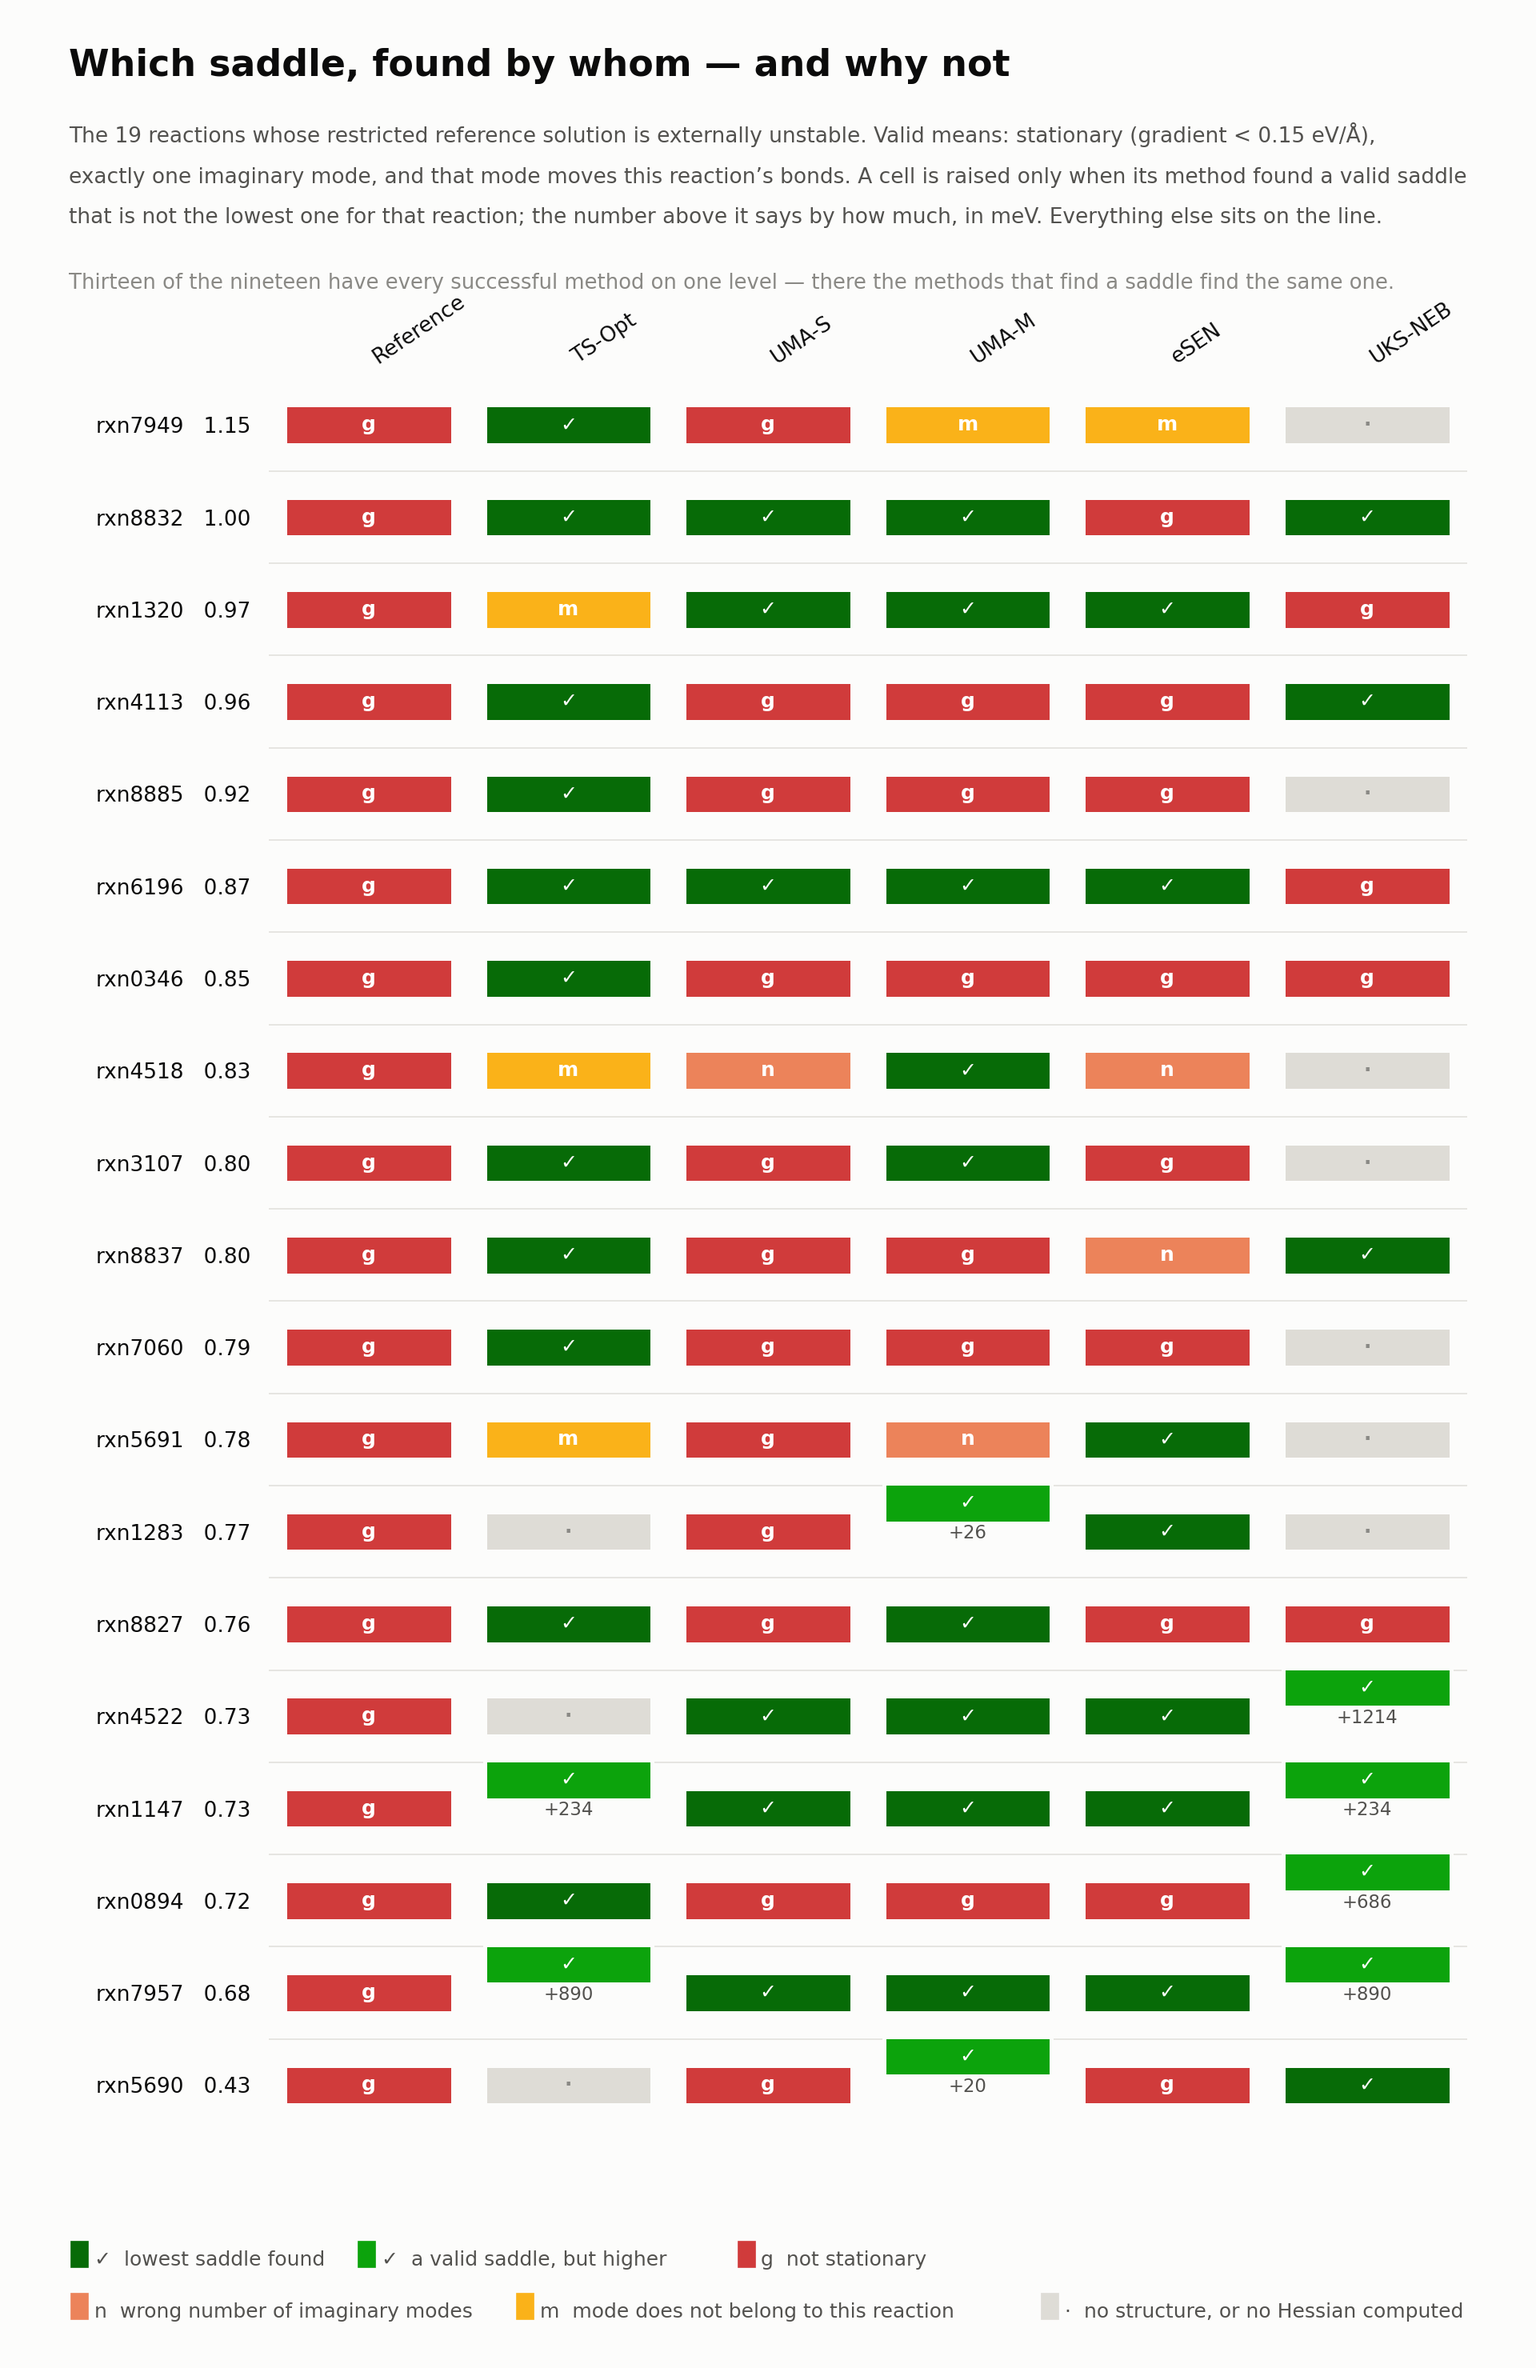
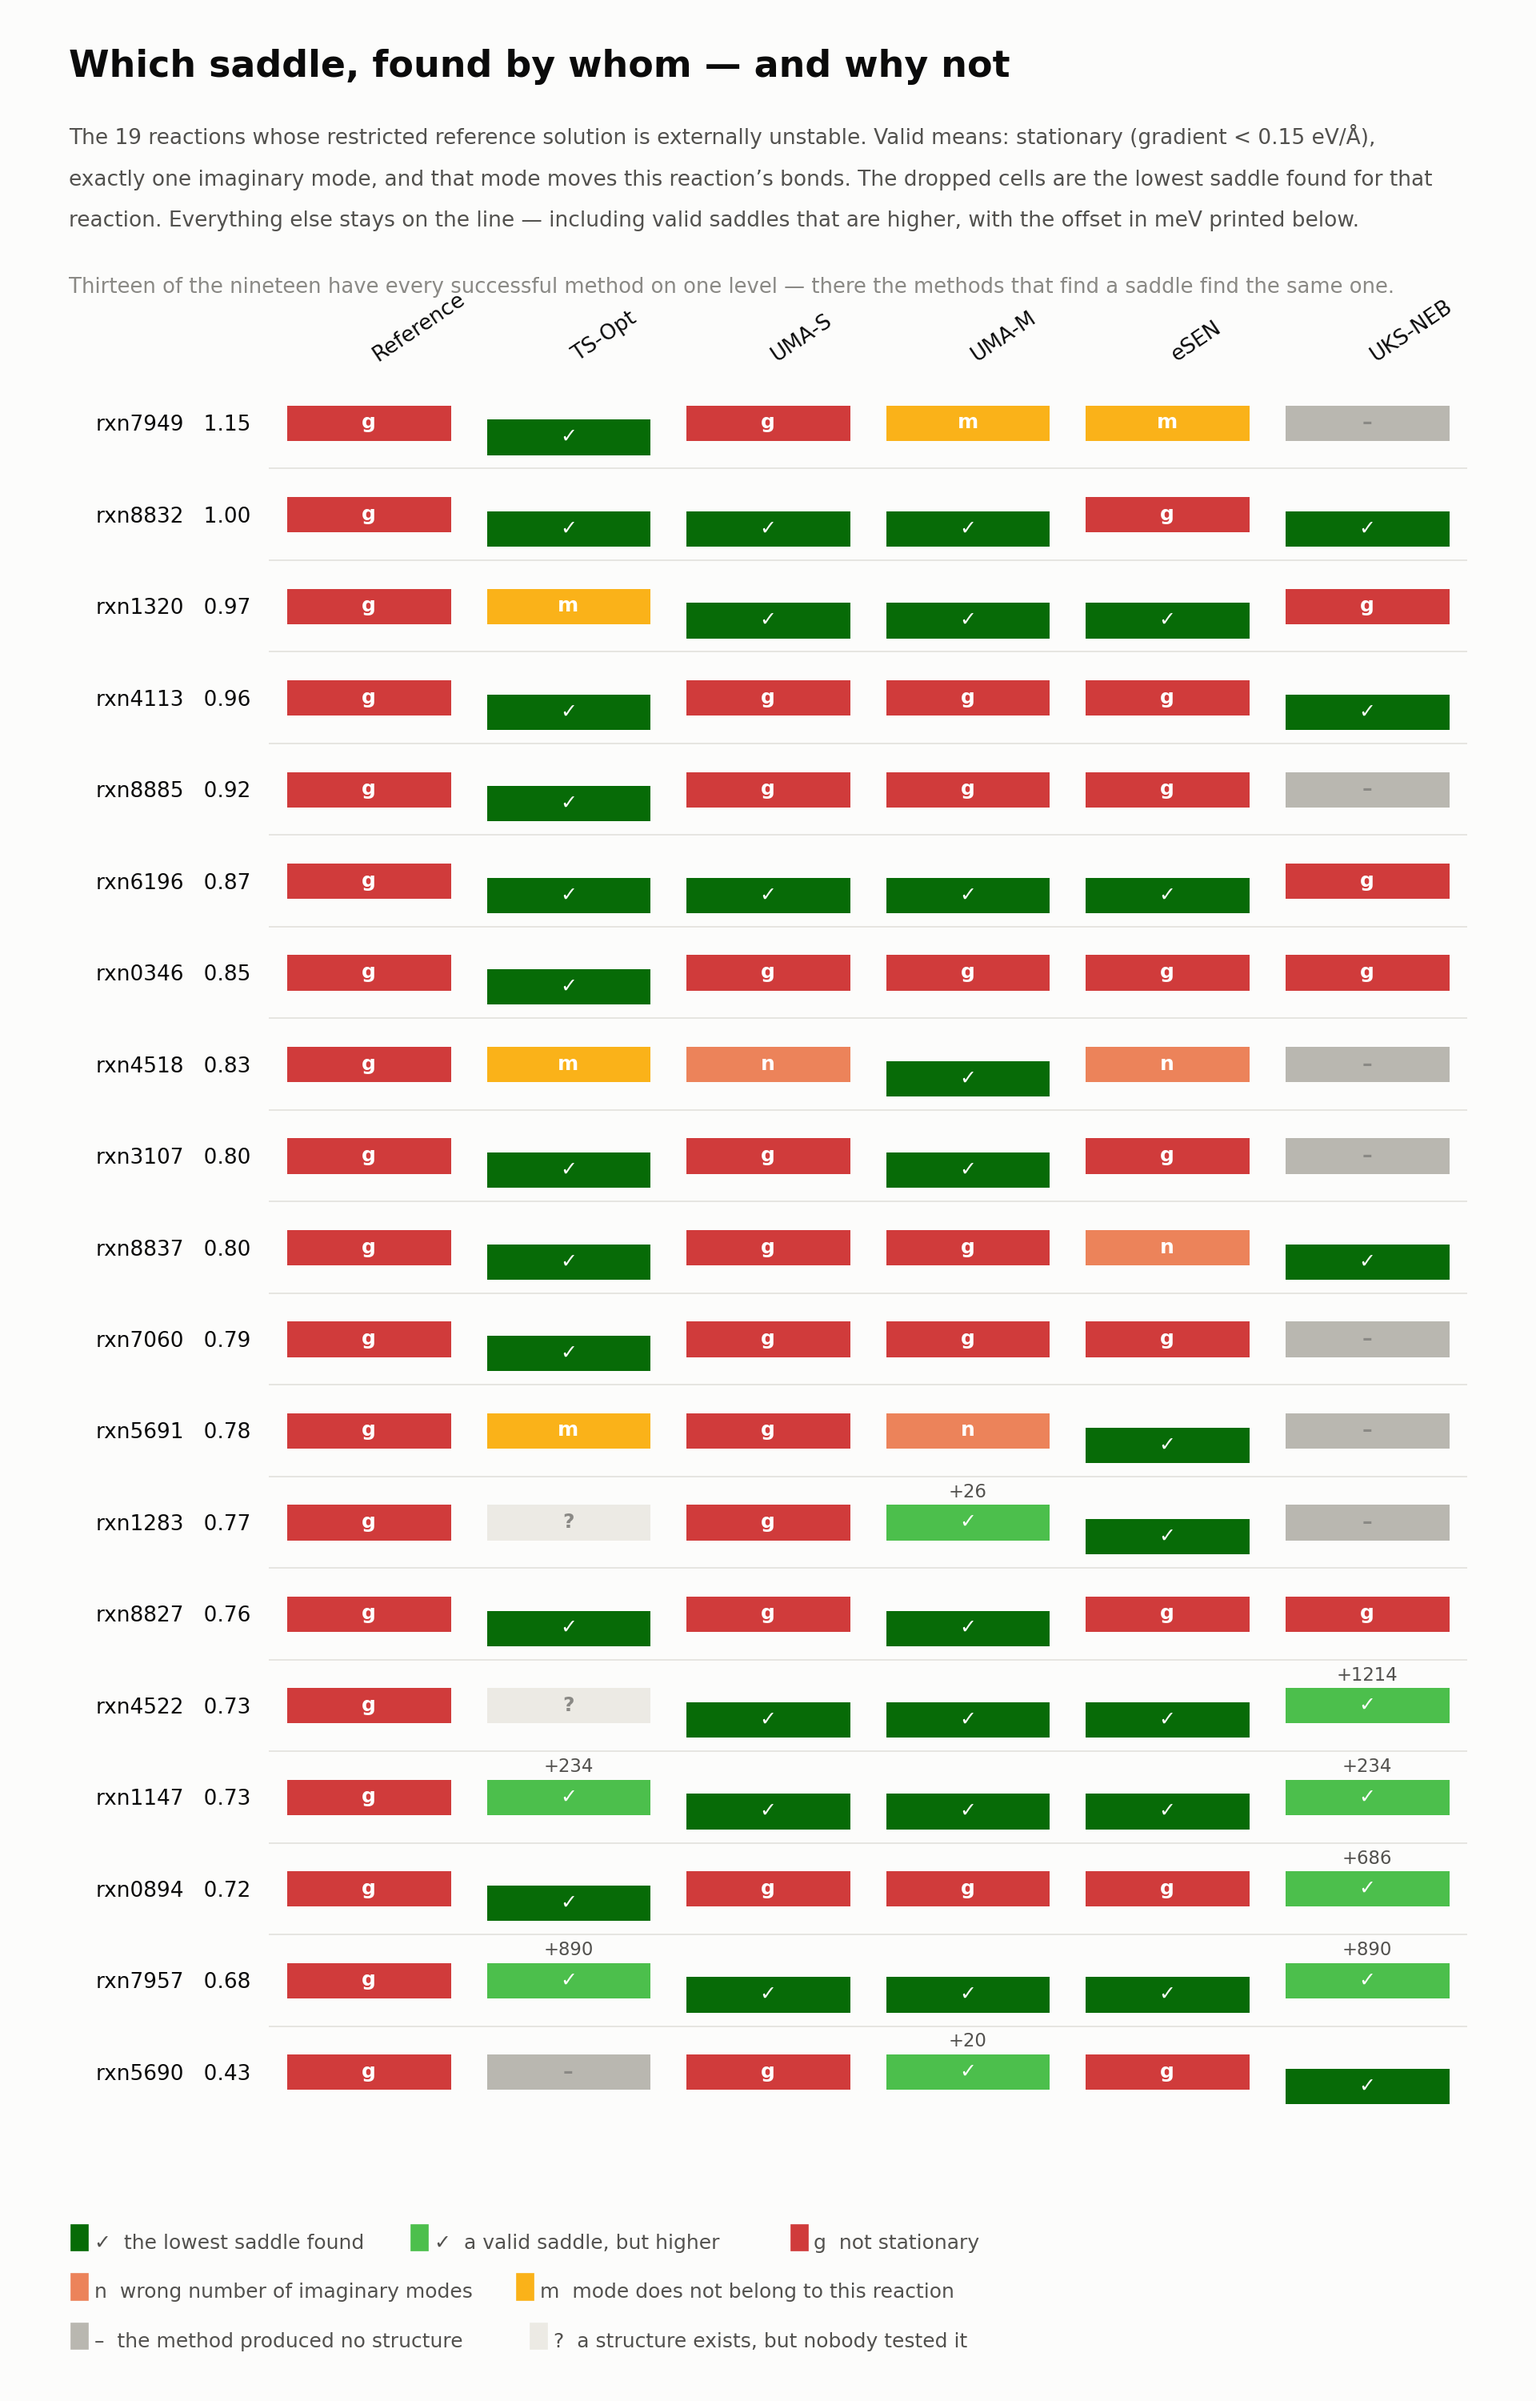
Separate "produced nothing" from "nobody looked", and drop only the winner
Two changes to the figure, both about not letting a cell say more than it knows.

The grey cell read "no structure, or no Hessian computed", which put a failure
of the method and a hole in our own work under one label. They mean opposite
things. Now "-" means the method produced no structure at all -- the NEB at
seven reactions, our optimisation at rxn5690 -- and "?" means a structure
exists and nobody tested it. "?" appears exactly twice, at our own TS-Opt for
rxn1283 and rxn4522, so the two remaining gaps are visible as gaps instead of
passing for results.

And the height rule is inverted: only the lowest saddle drops below the line,
everything else stays on it. Previously the higher saddles rose and the lowest
sat on the line, which made the answer look like the default rather than the
finding. Now the one cell that sits apart is the one that is the answer.

make_freq_list_gaps.py fills those two. They were missed because
make_freq_list_ours.py built its task list from the reactions that already had
a PySCF Hessian, so a reaction that never had one could not acquire one -- the
list was keyed on the wrong thing.

Worth carrying with rxn4522: the structure recorded as ours there has <S^2> =
0.0 after 144 steps with the BS_LOST flag, so the symmetry breaking was lost
entirely and it is an RKS structure wearing a BS label. Also a correction --
the "332 steps" I repeated for rxn4522 belongs to a different run than the one
the tables use.

diff --git a/pipeline/plot_saddle_landscape.py b/pipeline/plot_saddle_landscape.py
@@ -57,8 +57,12 @@ GRID = '#e6e5e1'
 # higher one" are ordered states of the same outcome, not different outcomes.
 # Height and the printed offset carry the same distinction, so nothing rests on
 # the two greens being told apart.
-ST = {'low': '#076b07', 'ok': '#0ca30c', 'grad': '#d03b3b',
-      'nimag': '#ec835a', 'mode': '#fab219', 'none': '#dedcd6'}
+ST = {'low': '#076b07', 'ok': '#4cbf4c', 'grad': '#d03b3b',
+      'nimag': '#ec835a', 'mode': '#fab219',
+      # These two were one grey cell reading "no structure or no Hessian",
+      # which put a failure of the method and a gap in our own work under the
+      # same label. They mean opposite things and now look different.
+      'nostruct': '#b9b7b0', 'untested': '#eceae4'}
 
 METHODS = [('Reference', 'R'), ('TS-Opt', 'T'), ('UMA-S', 'S'),
            ('UMA-M', 'M'), ('eSEN', 'E'), ('UKS-NEB', 'N')]
@@ -276,17 +280,21 @@ for rx in MR:
     state, valid = {}, []
     for name, _ in METHODS:
         d = info[name]
+        # "the method produced nothing" and "we never checked" are separate
+        # outcomes: the first is a result about the method, the second is a
+        # hole in our own work, and reading the second as the first is the
+        # mistake this whole project spent weeks recovering from.
         if not d['geom']:
-            state[name] = 'none'
+            state[name] = 'nostruct'
             continue
         if d['grad'] is None:
-            state[name] = 'none'
+            state[name] = 'untested'
             continue
         if d['grad'] >= GRAD_OK:
             state[name] = 'grad'
             continue
         if not d['hess']:
-            state[name] = 'none'
+            state[name] = 'untested'
             continue
         try:
             sym, xyz = read_xyz(d['geom'])
@@ -294,7 +302,7 @@ for rx in MR:
                   else np.load(d['hess']))
             a = analyse(hs, sym, xyz, pairs) if pairs else None
         except Exception:
-            state[name] = 'none'
+            state[name] = 'untested'
             continue
         if a is None or a['n_imag'] != 1:
             state[name] = 'nimag'
@@ -303,7 +311,7 @@ for rx in MR:
             state[name] = 'mode'
             continue
         if d['e'] is None:
-            state[name] = 'none'
+            state[name] = 'untested'
             continue
         state[name] = 'ok'
         valid.append({'name': name, 'e': d['e'], 'xyz': xyz})
@@ -338,8 +346,8 @@ NR = len(rows)
 # valid one that is not the lowest, and at the row centre when it found no
 # saddle at all -- height only exists where an energy exists. A separate energy
 # panel beside this said the same thing twice.
-fig = plt.figure(figsize=(9.6, 0.60 * NR + 3.4), facecolor=SURF)
-axS = fig.add_axes([0.175, 0.100, 0.780, 0.740])
+fig = plt.figure(figsize=(9.6, 0.60 * NR + 3.6), facecolor=SURF)
+axS = fig.add_axes([0.175, 0.118, 0.780, 0.725])
 axS.set_facecolor(SURF)
 for sp in axS.spines.values():
     sp.set_visible(False)
@@ -349,7 +357,7 @@ for sp in axS.spines.values():
 # So height carries the order and the printed number carries the size.
 DY, CH = 0.155, 0.215
 GLYPH = {'low': '✓', 'ok': '✓', 'grad': 'g', 'nimag': 'n', 'mode': 'm',
-         'none': '·'}
+         'nostruct': '–', 'untested': '?'}
 
 axS.set_xlim(-0.5, len(METHODS) - 0.5)
 axS.set_ylim(NR - 0.5, -0.5)
@@ -369,20 +377,19 @@ for i, r in enumerate(rows):
     nlev = len(r['groups'])
     for j, (name, _) in enumerate(METHODS):
         s = r['state'].get(name, 'none')
-        # Only a higher saddle leaves the line. Lowering the lowest as well
-        # made the thirteen uncontested rows ragged for no reason, and put the
-        # failure cells -- which have no energy at all -- at an apparent height
-        # between the two.
+        # Only the lowest saddle leaves the line. Everything else -- higher
+        # saddles and every kind of failure -- stays on it, so the one cell
+        # that sits apart is the one that is the answer.
         k = r.get('level', {}).get(name)
-        y = i if not k else i - k * 2 * DY
+        y = i + DY if k == 0 else i
         axS.add_patch(Rectangle((j - 0.42, y - CH), 0.84, 2 * CH,
                                 facecolor=ST[s], edgecolor=SURF, lw=1.8,
                                 zorder=2))
         axS.text(j, y, GLYPH[s], fontsize=9.0, ha='center', va='center',
-                 color='white' if s != 'none' else INK3, zorder=3,
-                 weight='bold')
+                 color='white' if s not in ('nostruct', 'untested') else INK3,
+                 zorder=3, weight='bold')
         if k is not None and k > 0:
-            axS.text(j, y + CH + 0.115, f'+{r["levels"][k]:.0f}',
+            axS.text(j, y - CH - 0.115, f'+{r["levels"][k]:.0f}',
                      fontsize=8.2, ha='center', va='center', color=INK2,
                      zorder=3, family='DejaVu Sans')
 
@@ -392,9 +399,9 @@ for k, line in enumerate([
         'The 19 reactions whose restricted reference solution is externally '
         'unstable. Valid means: stationary (gradient < 0.15 eV/Å),',
         'exactly one imaginary mode, and that mode moves this reaction’s '
-        'bonds. A cell is raised only when its method found a valid saddle',
-        'that is not the lowest one for that reaction; the number above it '
-        'says by how much, in meV. Everything else sits on the line.']):
+        'bonds. The dropped cells are the lowest saddle found for that',
+        'reaction. Everything else stays on the line — including valid '
+        'saddles that are higher, with the offset in meV printed below.']):
     fig.text(0.045, 0.940 - 0.0172 * k, line, fontsize=9.5, color=INK2,
              ha='left')
 
@@ -403,15 +410,17 @@ fig.text(0.045, 0.878,
          'there the methods that find a saddle find the same one.',
          fontsize=9.3, color=INK3, ha='left')
 
-items = [[('low', 'lowest saddle found'),
+# Three rows. Seven entries on two rows ran the last one off the right edge.
+items = [[('low', 'the lowest saddle found'),
           ('ok', 'a valid saddle, but higher'),
           ('grad', 'not stationary')],
          [('nimag', 'wrong number of imaginary modes'),
-          ('mode', 'mode does not belong to this reaction'),
-          ('none', 'no structure, or no Hessian computed')]]
+          ('mode', 'mode does not belong to this reaction')],
+         [('nostruct', 'the method produced no structure'),
+          ('untested', 'a structure exists, but nobody tested it')]]
 for r_i, row_items in enumerate(items):
     x0 = 0.045
-    y = 0.042 - 0.022 * r_i
+    y = 0.062 - 0.0205 * r_i
     for key, lab in row_items:
         fig.patches.append(Rectangle((x0, y), 0.0135, 0.0125,
                                      transform=fig.transFigure,

diff --git a/pipeline/make_freq_list_gaps.py b/pipeline/make_freq_list_gaps.py
@@ -1,0 +1,57 @@
+"""The two structures of ours that exist but were never given a Hessian.
+
+make_freq_list_ours.py built its list from the reactions that already had a
+PySCF Hessian, so a reaction that never had one could not acquire one -- the
+list was keyed on the wrong thing. rxn1283 and rxn4522 fell through that gap
+and show up as the only two "?" cells in the figure: a structure exists and
+nobody tested it.
+
+rxn4522 comes with a caveat worth carrying: its optimisation ran into the
+walltime after 332 steps, so the geometry is the last step rather than a
+converged one. The gradient from stage 1b says whether that matters.
+"""
+import glob
+import json
+import os
+
+H = '/home/energy/s242862'
+OUT = f'{H}/freq_tasks_gaps.txt'
+RX = ('rxn1283', 'rxn4522')
+
+
+def our_geometry(rx):
+    """Same resolution order as everywhere else, so this is the same structure
+    the tables and the figure call ours."""
+    for d in ('bs_tsopt_fromneb', 'bs_tsopt_v2', 'bs_tsopt_batch'):
+        rp = f'{H}/{d}/{rx}/result.json'
+        if not os.path.exists(rp):
+            continue
+        j = json.load(open(rp))
+        if j.get('e_uks_final') is None:
+            continue
+        for f in sorted(glob.glob(f'{H}/{d}/{rx}/*.xyz')):
+            if any(p in os.path.basename(f).lower()
+                   for p in ('ts', 'final', 'opt')):
+                return f, d.replace('bs_tsopt_', ''), j
+    return None, None, None
+
+
+tasks = []
+for rx in RX:
+    g, origin, j = our_geometry(rx)
+    lbl = f'ours_{rx}'
+    if not g:
+        print(f'{rx}: no structure found'); continue
+    if os.path.exists(f'{H}/orca_freq/{lbl}/numfreq.hess'):
+        print(f'{rx}: already done'); continue
+    tasks.append((lbl, g))
+    print(f'{rx}  from {origin}  status={j.get("status")}  '
+          f'steps={j.get("n_geom_steps")}  S2={j.get("s2_final")}')
+    print(f'     {g}')
+
+with open(OUT, 'w') as fh:
+    for lbl, g in tasks:
+        fh.write(f'{lbl} {g}\n')
+print(f'\n{len(tasks)} tasks -> {OUT}')
+if tasks:
+    print(f'array range: 0-{len(tasks) - 1}')
